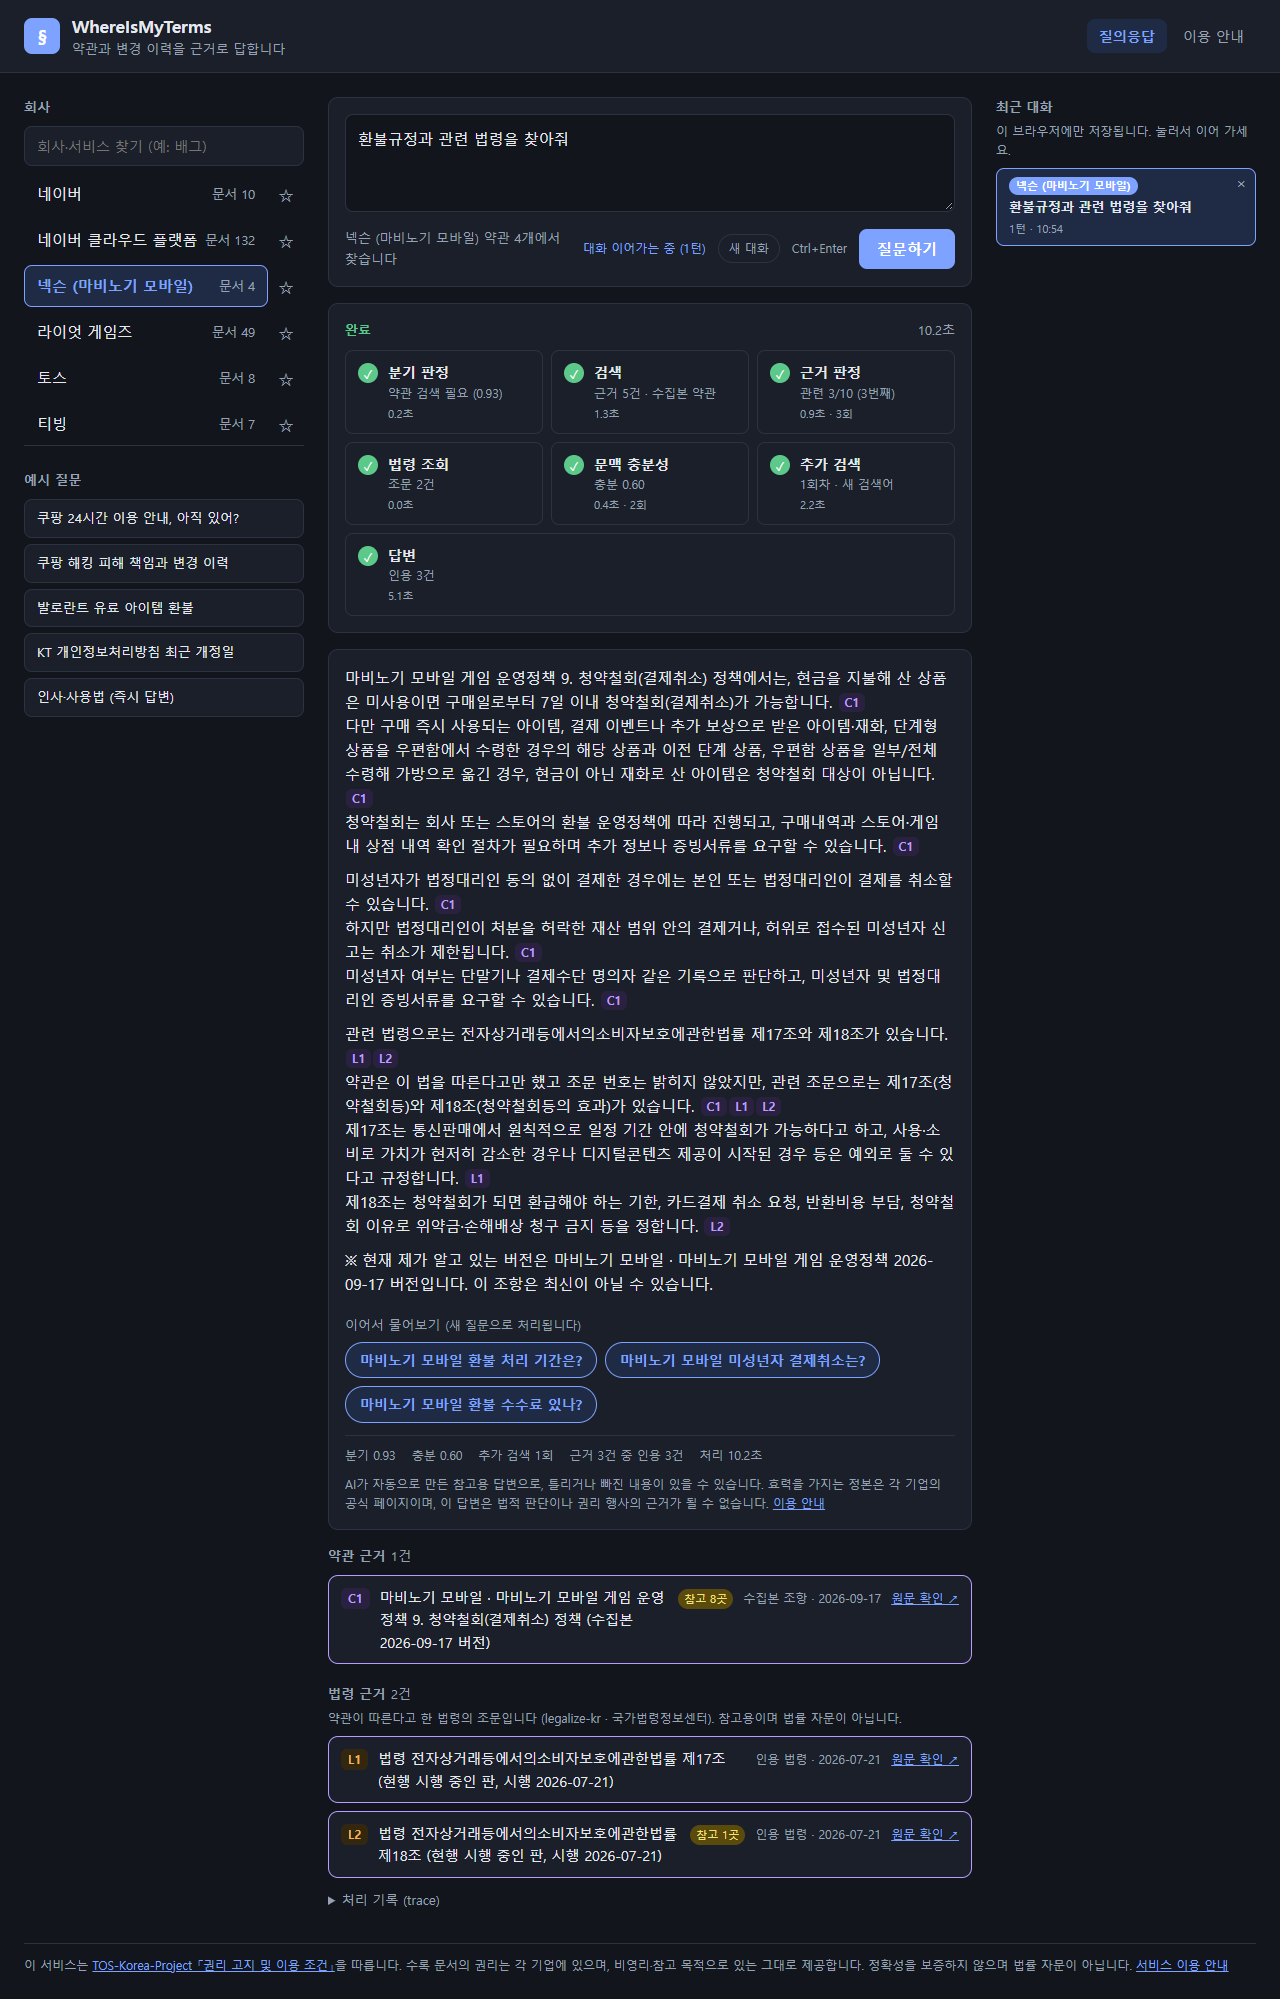
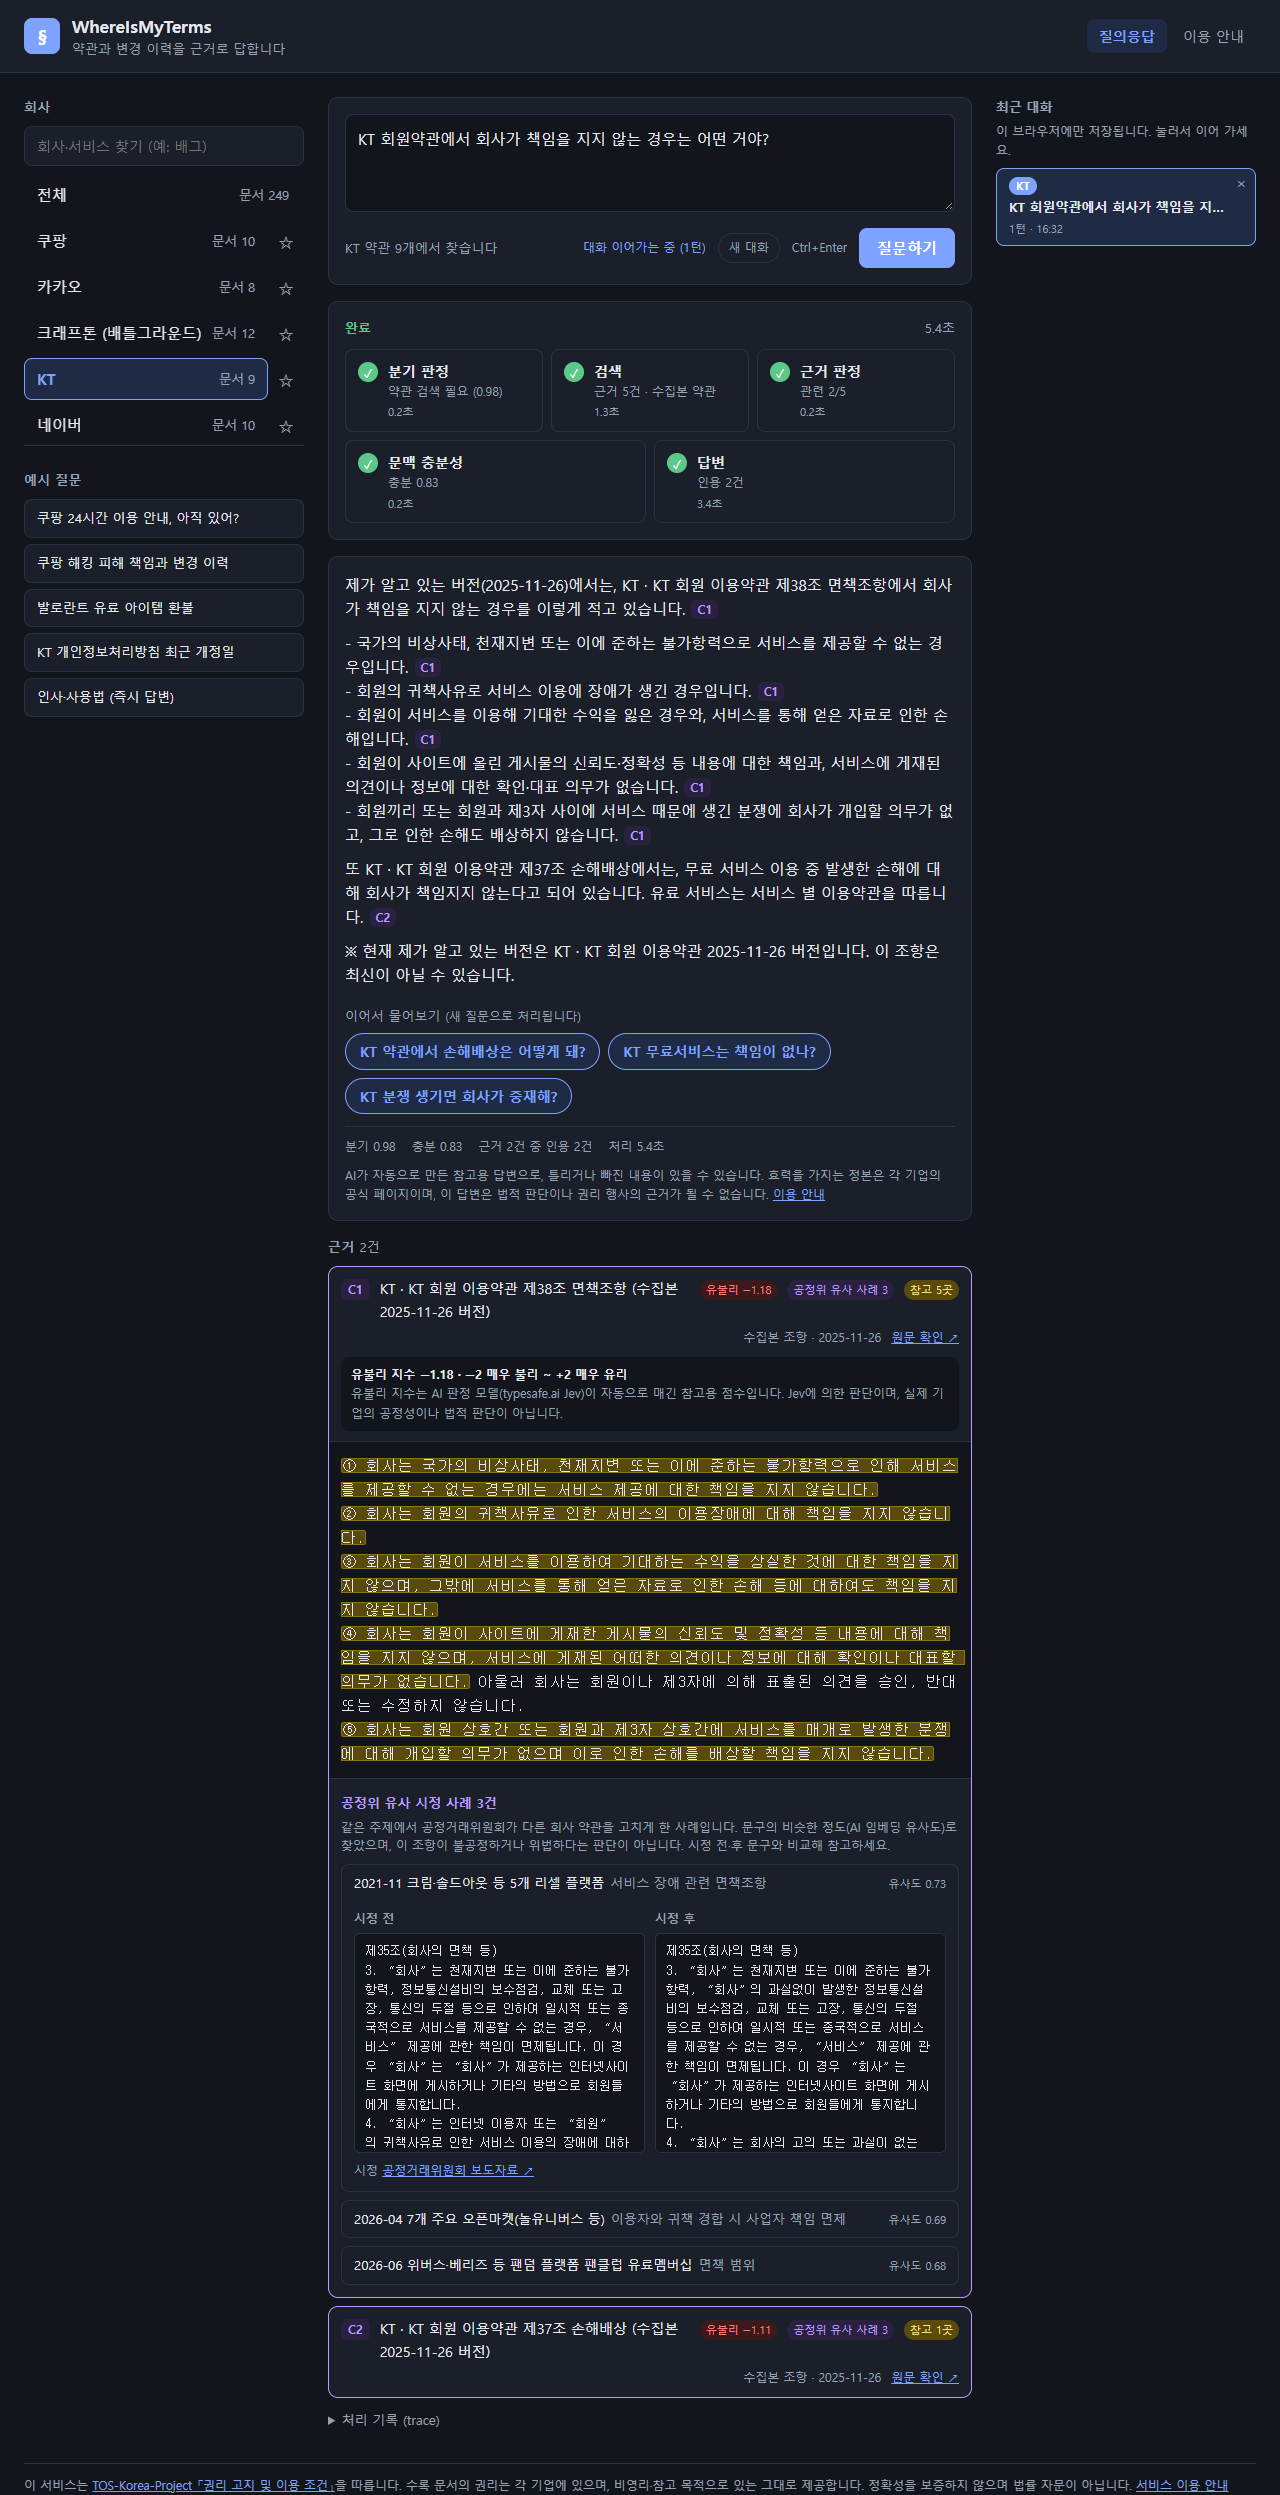
웹 화면 캡처 갱신 (유불리 칩·공정위 유사 사례), 유사 사례를 보도자료별 하나씩, 근거 카드 제목 줄바꿈

diff --git a/wimt/web_static/app.css b/wimt/web_static/app.css
@@ -182,11 +182,11 @@ button { font: inherit; cursor: pointer; }
 .ev { background: var(--panel); border: 1px solid var(--line); border-radius: var(--radius); overflow: hidden; }
 .ev.cited { border-color: var(--cite); }
 .ev.flash { box-shadow: 0 0 0 3px var(--cite-soft); }
-.ev summary { cursor: pointer; padding: 10px 12px; display: flex; gap: 10px; align-items: baseline; list-style: none; }
+.ev summary { cursor: pointer; padding: 10px 12px; display: flex; flex-wrap: wrap; gap: 6px 10px; align-items: baseline; list-style: none; }
 .ev summary::-webkit-details-marker { display: none; }
 .ev .tag { font-weight: 700; font-size: 12px; padding: 1px 7px; border-radius: 6px; background: var(--cite-soft); color: var(--cite); flex: none; }
 .ev:not(.cited) .tag { background: var(--line); color: var(--muted); }
-.ev .head { font-size: 14px; }
+.ev .head { font-size: 14px; flex: 1 1 300px; min-width: 0; }   /* 칩이 많으면 제목을 줄이지 않고 칩이 다음 줄로 */
 .ev .sub { color: var(--muted); font-size: 12px; margin-left: auto; white-space: nowrap; }
 .ev pre { margin: 0; padding: 12px; border-top: 1px solid var(--line); white-space: pre-wrap; word-break: break-word;
           font: 13px/1.6 inherit; background: var(--bg); max-height: 420px; overflow: auto; }

diff --git a/wimt/ftc.py b/wimt/ftc.py
@@ -4,7 +4,8 @@
   reports/ftc_eval/pairs_all.json 과 보도자료 목록 ../ftc-unfair-terms/cases.csv 에서 읽는다 (둘 다 로컬 전용).
 - 색인: 시정 전 조항을 조항 색인과 같은 임베딩 모델로 같은 Chroma 에 넣는다 (컬렉션 ftc_cases_all__{모델}).
 - 연결(link): 조항 색인에 이미 저장된 조각 벡터와 사례 벡터를 행렬로 비교한다 (추가 임베딩 없음).
-  조항마다 코사인 유사도 LINK_MIN 이상인 사례를 LINK_TOP 개까지 .cache/ftc_links_{전략}__{모델}.json 에 둔다.
+  조항마다 코사인 유사도 LINK_MIN 이상인 사례를, 보도자료마다 가장 비슷한 하나씩 LINK_TOP 건까지
+  .cache/ftc_links_{전략}__{모델}.json 에 둔다 (같은 보도자료의 비슷한 조항이 자리를 다 차지하지 않게).
 - 쓰임: 화면에서 근거 조항 옆에 "문구가 비슷한 공정위 시정 사례"를 참고로 보여 준다. 답변 LLM 에는 넣지 않는다
   (다른 회사 사례를 근거로 이 조항이 불공정하다고 말하게 될 수 있어서). 비슷한 사례가 있다는 것은
   이 조항이 불공정하다는 판단이 아니다.
@@ -109,7 +110,15 @@ def link(db_dir: Path, cache_dir: Path, strategy: str, model: str,
             g = best.setdefault(meta["group"], {})
             for j in idx:
                 g[cids[j]] = max(g.get(cids[j], 0.0), float(row[j]))
-    links = {g: [[c, round(s, 3)] for c, s in sorted(v.items(), key=lambda x: -x[1])[:top]] for g, v in best.items()}
+    links = {}
+    for g, v in best.items():                       # 같은 보도자료의 비슷한 조항은 하나만 (서로 다른 보도자료 top 건)
+        seen, keep = set(), []
+        for c, s in sorted(v.items(), key=lambda x: -x[1]):
+            release = c.split("#")[0]
+            if release not in seen:
+                seen.add(release)
+                keep.append([c, round(s, 3)])
+        links[g] = keep[:top]
     used = {c for v in links.values() for c, _ in v}
     out = {"model": model, "strategy": strategy, "min_sim": min_sim, "top": top, "links": links,
            "cases": {c: cases[c] for c in used if c in cases}}

diff --git a/EVALUATION.md b/EVALUATION.md
@@ -184,7 +184,7 @@
 | 0.60 – 0.63 | 주제만 같음 (이용제한 일반 등) |
 | 0.60 미만 | 엉뚱한 짝이 섞임 |
 
-- 0.63 이상만 연결합니다. 최신 조항 1,801개 중 260개에 연결됐고, 사례는 124개가 쓰였습니다.
+- 0.63 이상만 연결합니다. 최신 조항 1,801개 중 260개에 연결됐고, 조항마다 보도자료 하나당 가장 비슷한 사례 하나씩 최대 3건을 붙이며, 사례는 111개가 쓰였습니다.
 - 유사 사례가 붙은 조항의 Jev 평균은 −0.59(불리 47%)로, 전체 최신 조항(−0.33, 28%)보다 낮습니다(창 채점 후 조 지수 기준).
 - 한계: 귀책사유에 따라 서로 배상하는 공정한 조항도 "회원이 모든 손해를 배상" 시정 사례와 0.74로 짝지어집니다. 그래서 화면에서는 "같은 주제에서 공정위가 다른 회사 약관을 이렇게 고치게 했다"로만 보여 주고, 시정 전·후 문구와 보도자료 링크를 함께 둡니다.
 
